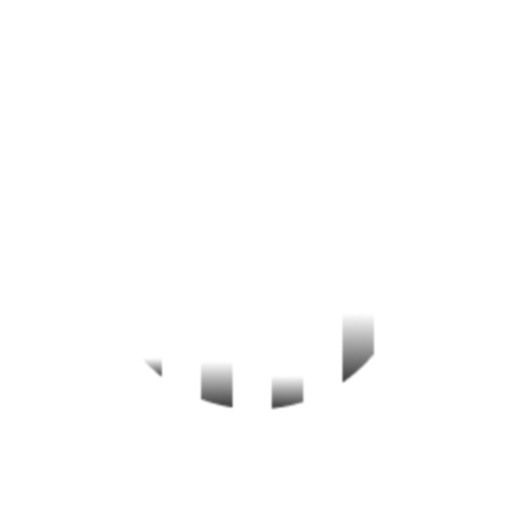
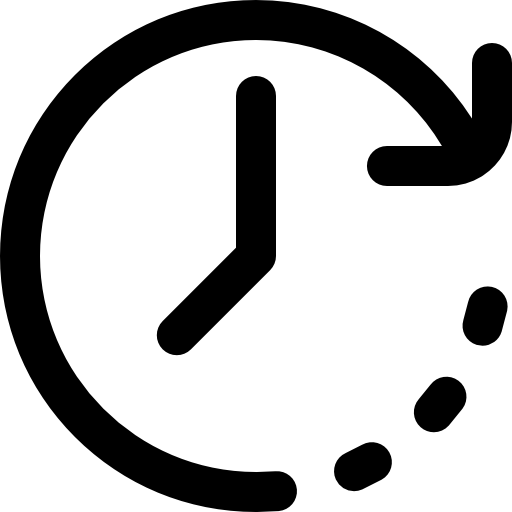
v0.1.7

diff --git a/static/css/mobile.css b/static/css/mobile.css
@@ -189,6 +189,7 @@
     font-weight: 600;
     margin-bottom: 2rem;
     cursor: pointer;
+    background-color: #222222;
     transition: background-color 0.2s ease;
     padding: 0;
     border-radius: 6px;
